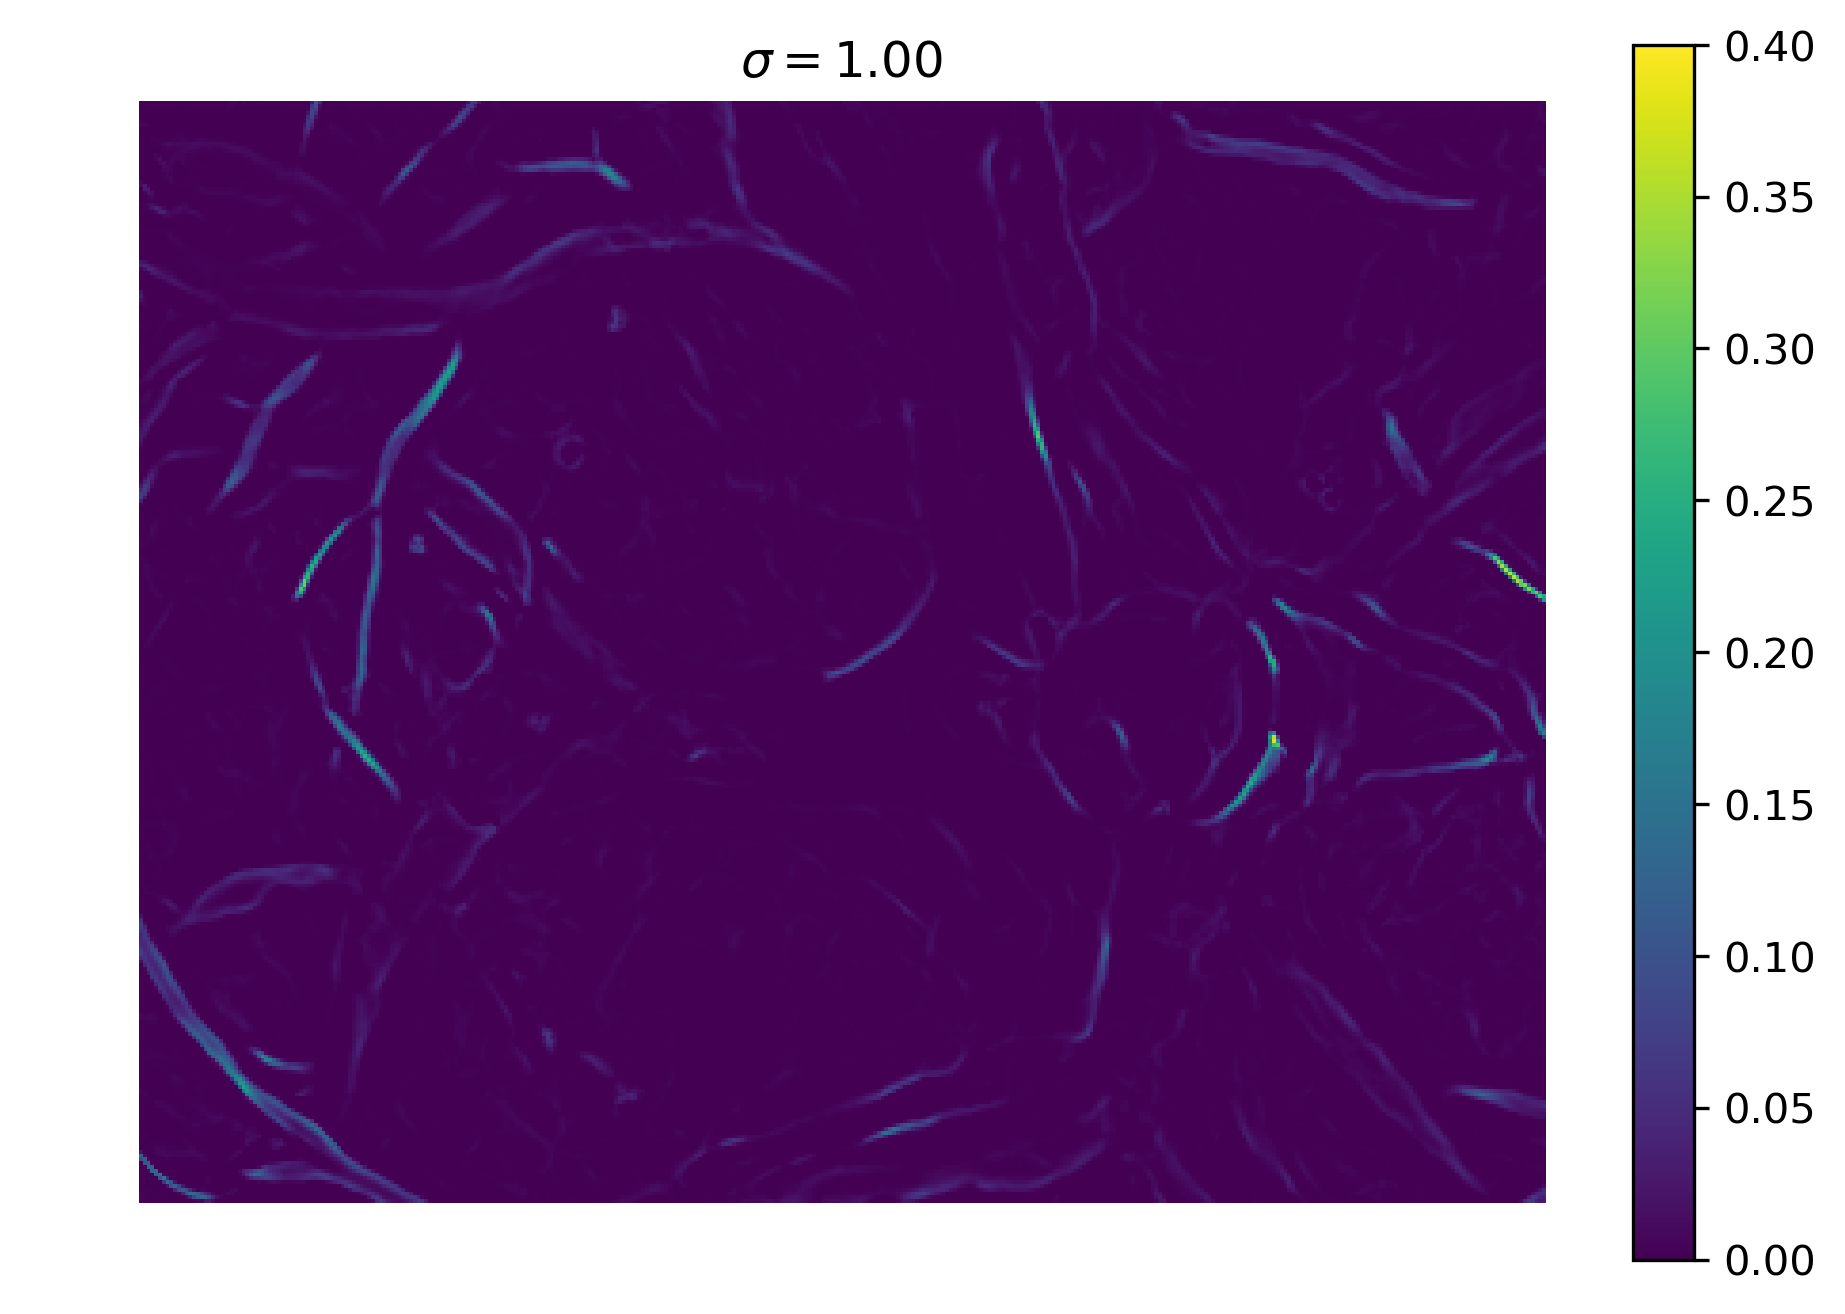
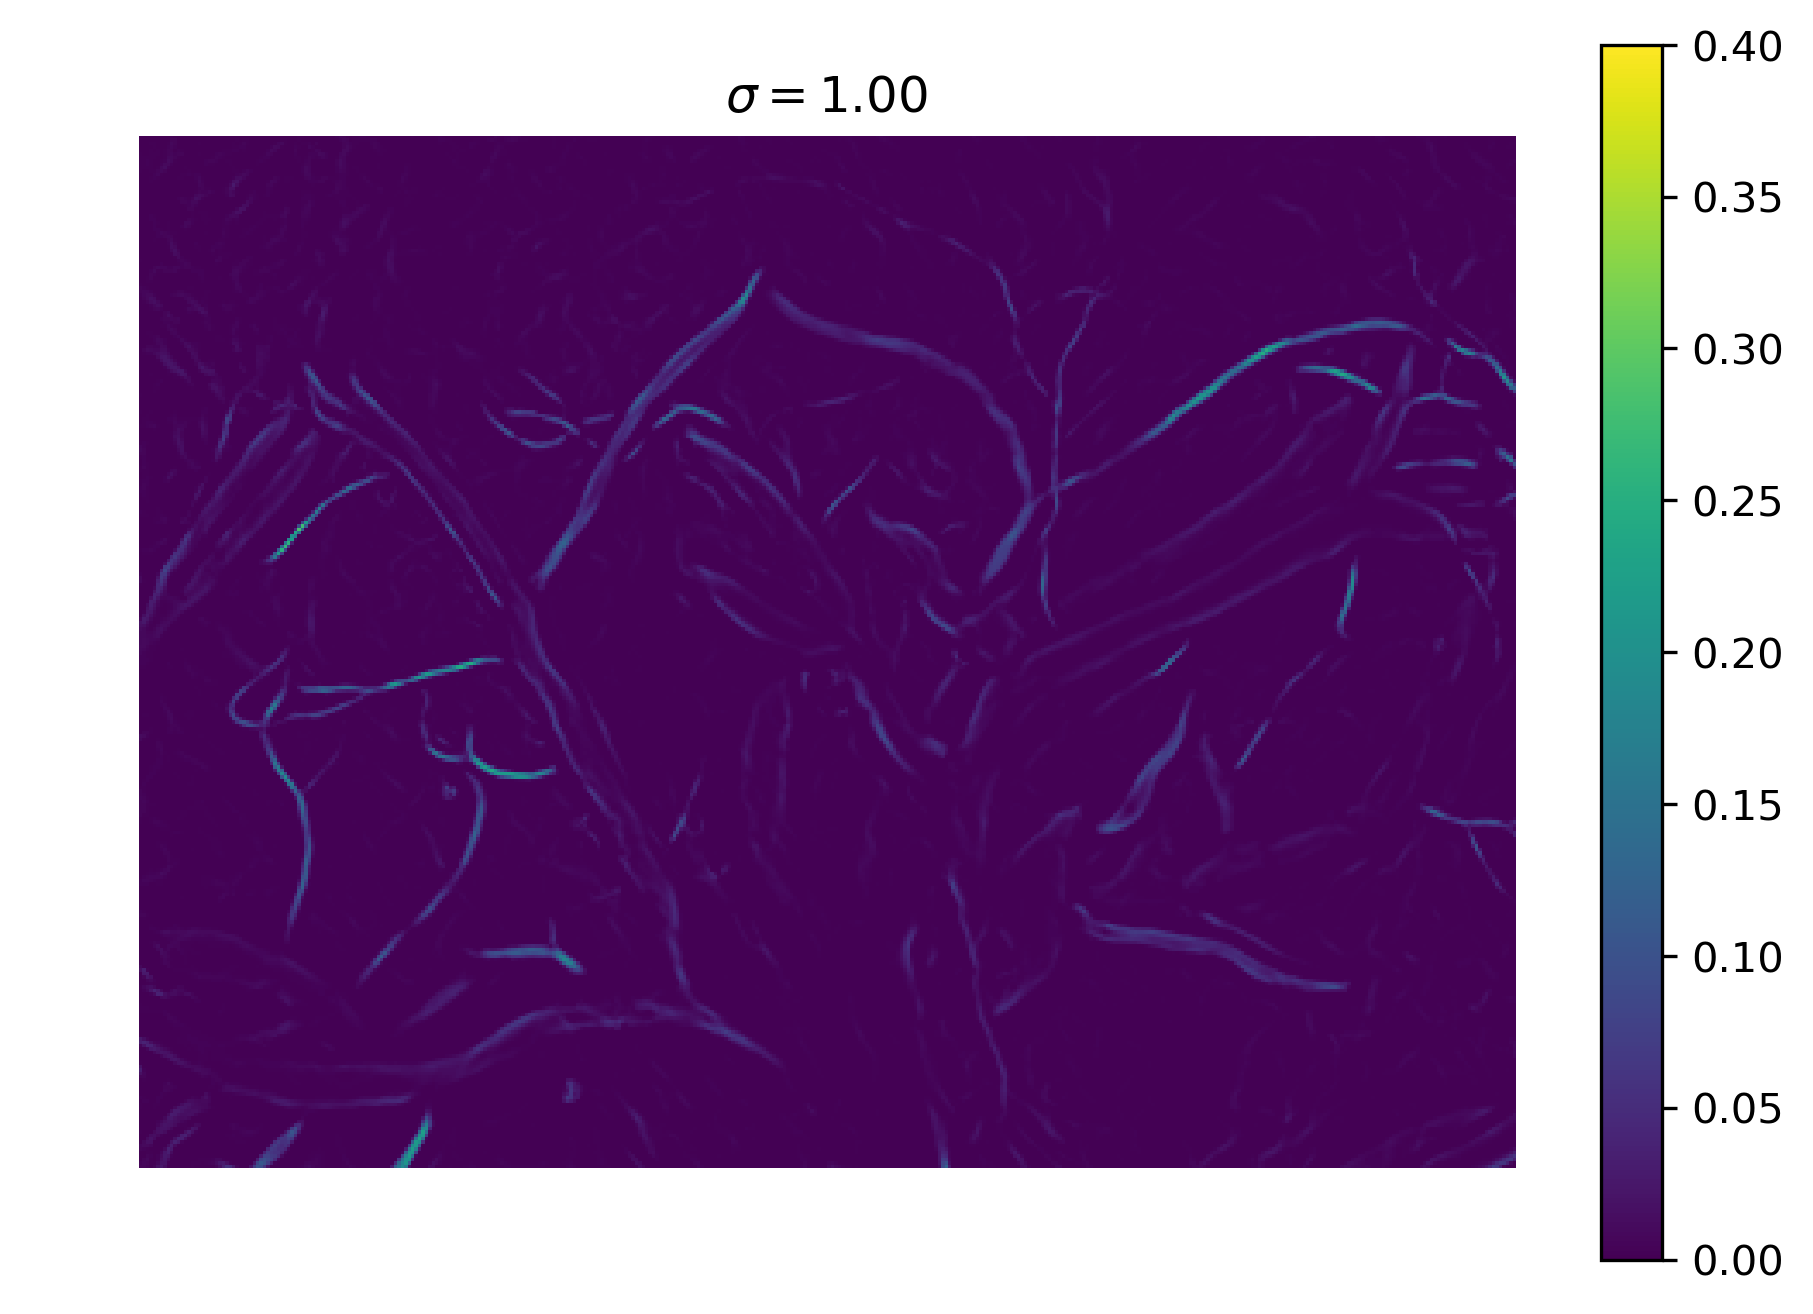
two samples in scale_sweep demo

diff --git a/scale_sweep_demo.py b/scale_sweep_demo.py
@@ -12,59 +12,66 @@ from plate_morphology import dilate_boundary
 import os.path
 import matplotlib.pyplot as plt
 
+# pick two samples and two insets (should be the same size)
+demo1 = 'BN2315363', np.s_[370:670, 530:930]
+demo2 = 'BN5280796', np.s_[150:450, 530:930]
 
-sample_name, inset_slice = 'BN2315363', np.s_[370:660, 530:900]
-sample_name, inset_slice = 'BN5280796', np.s_[370:660, 530:900]
-
-img = get_named_placenta(f'T-{sample_name}.png')
+for sample_name, inset_slice in (demo1, demo2):
+    img = get_named_placenta(f'T-{sample_name}.png')
 
 
-F, fi = list(), list() # make some empty lists to store for inspection
+    F, fi = list(), list() # make some empty lists to store for inspection
 
-# struggling with this now. sigma=1.23
-#scales = np.logspace(-3, 4, num=8, base=2)
-scales = [0.2, 0.8, 1.0, 2.0, 4.0, 6.0, 8.0, 16.0]
-#CMAP = plt.cm.nipy_spectral_r
-#CMAP = plt.cm.nipy_spectral
-CMAP = plt.cm.viridis
-cmin, cmax = (0, 0.4)
+    # struggling with this now. sigma=1.23
+    #scales = np.logspace(-3, 4, num=8, base=2)
+    scales = [0.2, 0.8, 1.0, 2.0, 4.0, 6.0, 8.0, 16.0]
+    #CMAP = plt.cm.nipy_spectral_r
+    #CMAP = plt.cm.nipy_spectral
+    CMAP = plt.cm.viridis
+    cmin, cmax = (0, 0.4)
 
-for n, sigma in enumerate(scales):
-    target = frangi_from_image(img, sigma, dark_bg=False, dilation_radius=10)
-    plate = cropped_view(target).filled(0)
-    inset = target[inset_slice]
-    F.append(plate)
-    fi.append(inset)
+    for n, sigma in enumerate(scales):
+        target = frangi_from_image(img, sigma, dark_bg=False,
+                                   dilation_radius=10)
+        plate = cropped_view(target).filled(0)
+        inset = target[inset_slice]
+        F.append(plate)
+        fi.append(inset)
+        for label in ['plate', 'inset']:
+            if label == 'inset':
+                printable = inset
+            else:
+                printable = plate
+
+            plt.imshow(printable, cmap=CMAP)
+            plt.title(r'$\sigma={:.2f}$'.format(sigma))
+            plt.tight_layout()
+            c = plt.colorbar()
+            c.set_ticks = np.linspace(cmin, cmax, num=len(scales)+1)
+            plt.clim(cmin, cmax)
+            plt.axis('off')
+            outname = f'demo_output/scalesweep_{sample_name}_{label}_{n}.png'
+            plt.savefig(outname, dpi=300, bbox_inches='tight')
+            print('saved', outname)
+            plt.close()
+
+
+    # now make a stitched together version
     for label in ['plate', 'inset']:
         if label == 'inset':
-            printable = inset
+            L = fi
+            imgview = img[inset_slice].filled(0)
         else:
-            printable = plate
+            L = F
+            imgview = cropped_view(img).filled(0)
+        #adjust this manually depending on how many scales you end up using!
+        top = np.concatenate(L[:4],axis=1)
+        bottom = np.concatenate(L[4:],axis=1)
+        stitched = np.concatenate((top,bottom),axis=0)
+        imga = plt.imshow(stitched, cmap=CMAP)
+        plt.imsave(f'demo_output/scalesweep_stitch_{sample_name}_{label}.png',
+                stitched, cmap=CMAP, vmin=cmin, vmax=cmax)
 
-        plt.imshow(printable, cmap=CMAP)
-        plt.title(r'$\sigma={:.2f}$'.format(sigma))
-        plt.tight_layout()
-        c = plt.colorbar()
-        c.set_ticks = np.linspace(cmin, cmax, num=len(scales)+1)
-        plt.clim(cmin, cmax)
-        plt.axis('off')
-        outname = f'demo_output/scalesweep_{sample_name}_{label}_{n}.png'
-        plt.savefig(outname, dpi=300, bbox_inches='tight')
-        print('saved', outname)
-        plt.close()
-
-# now make a stitched together version
-for label in ['plate', 'inset']:
-    if label == 'inset':
-        L = fi
-    else:
-        L = F
-    #adjust this manually depending on how many scales you end up using!
-    top = np.concatenate(L[:4],axis=1)
-    bottom = np.concatenate(L[4:],axis=1)
-    stitched = np.concatenate((top,bottom),axis=0)
-    imga = plt.imshow(stitched, cmap=CMAP)
-    plt.imsave(f'demo_output/scalesweep_stitched_{sample_name}_{label}.png',
-               stitched, cmap=CMAP, vmin=cmin, vmax=cmax)
-
-
+        # also save the original pic
+        plt.imsave(f'demo_output/scalesweep_{sample_name}_{label}_raw',
+                imgview, cmap=plt.cm.gray)
